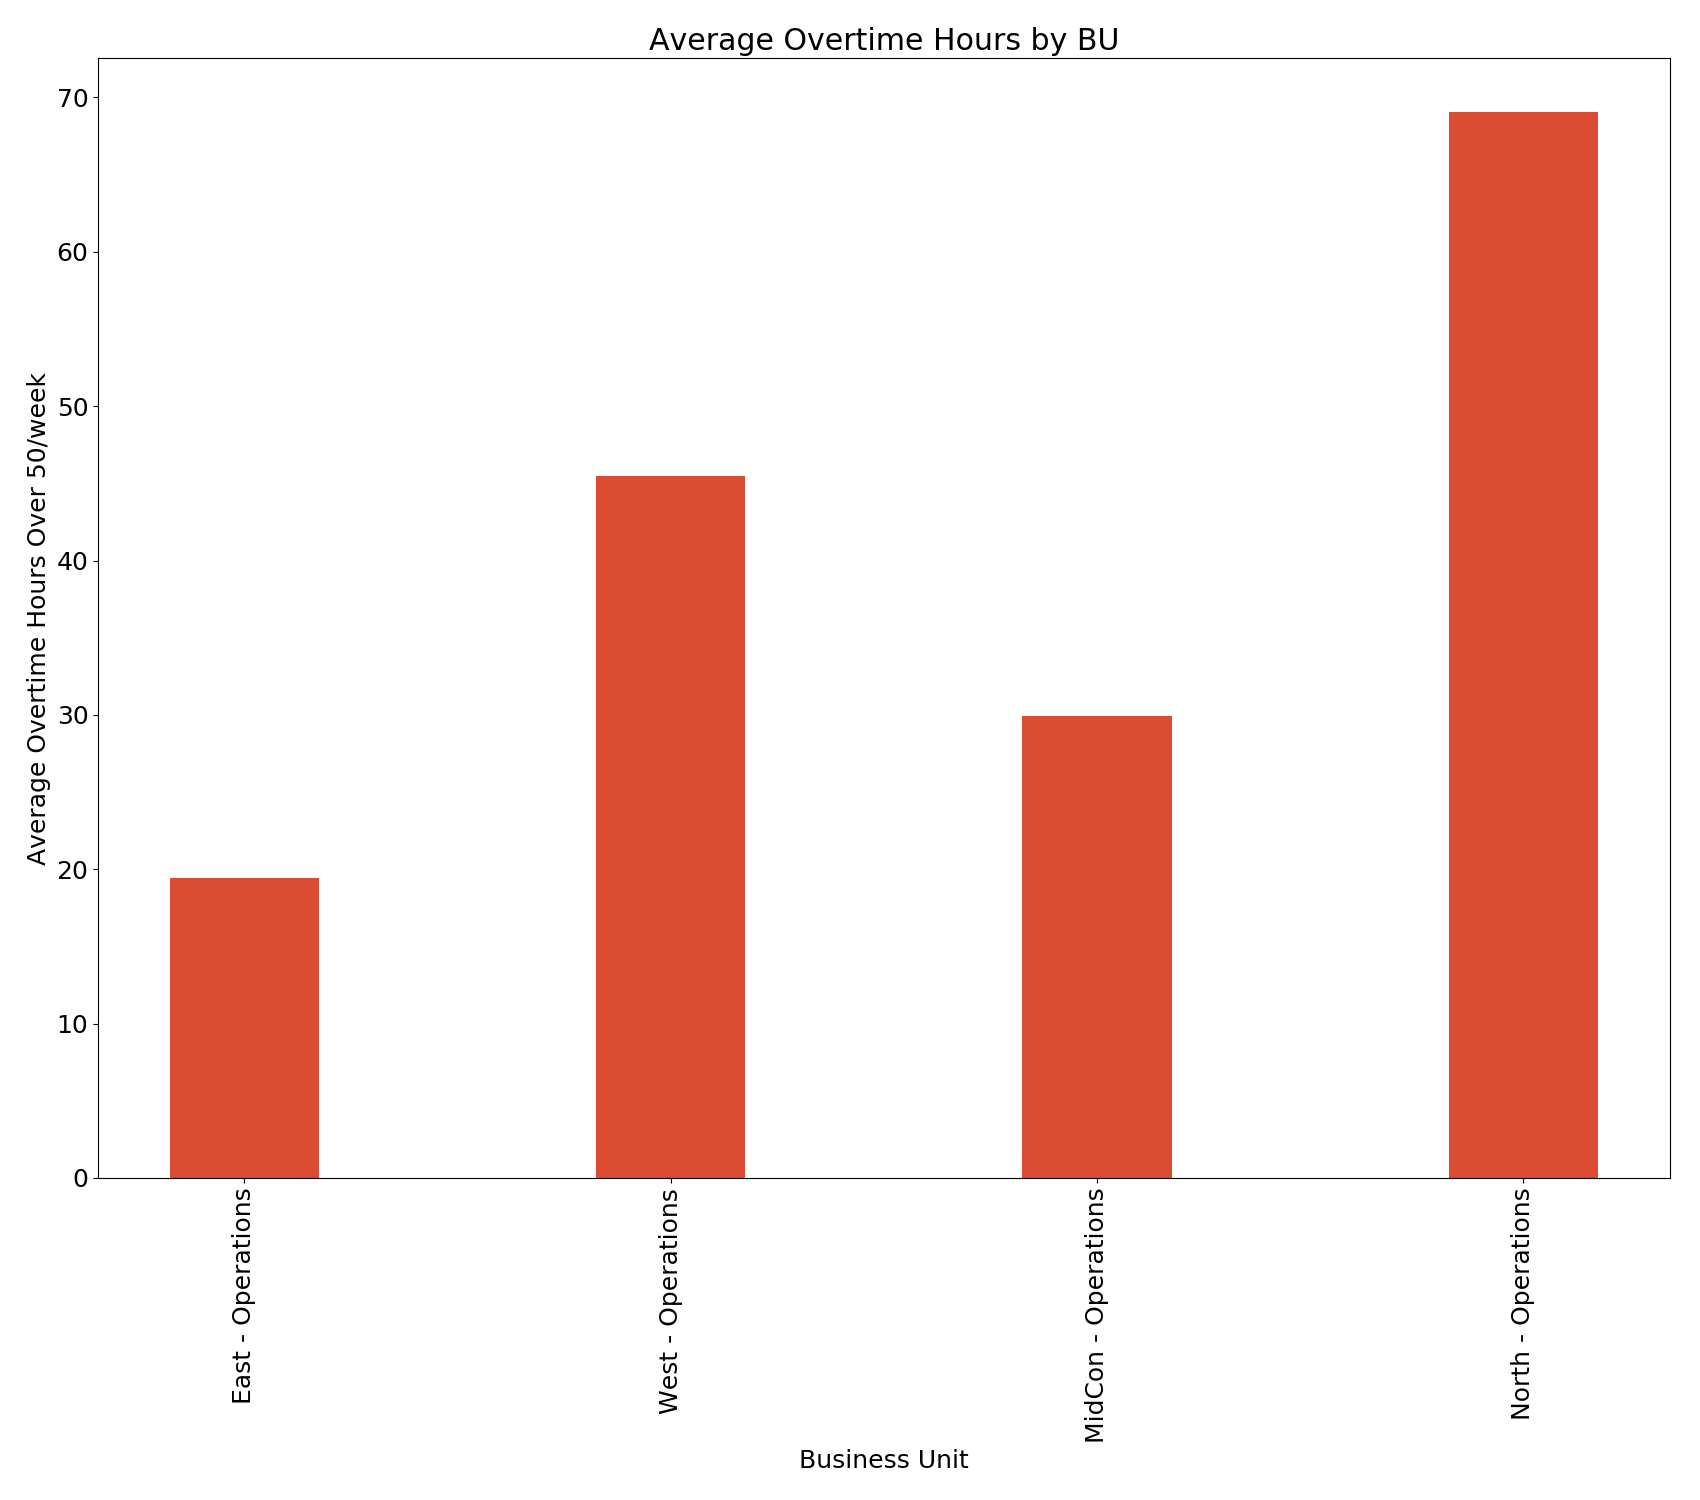
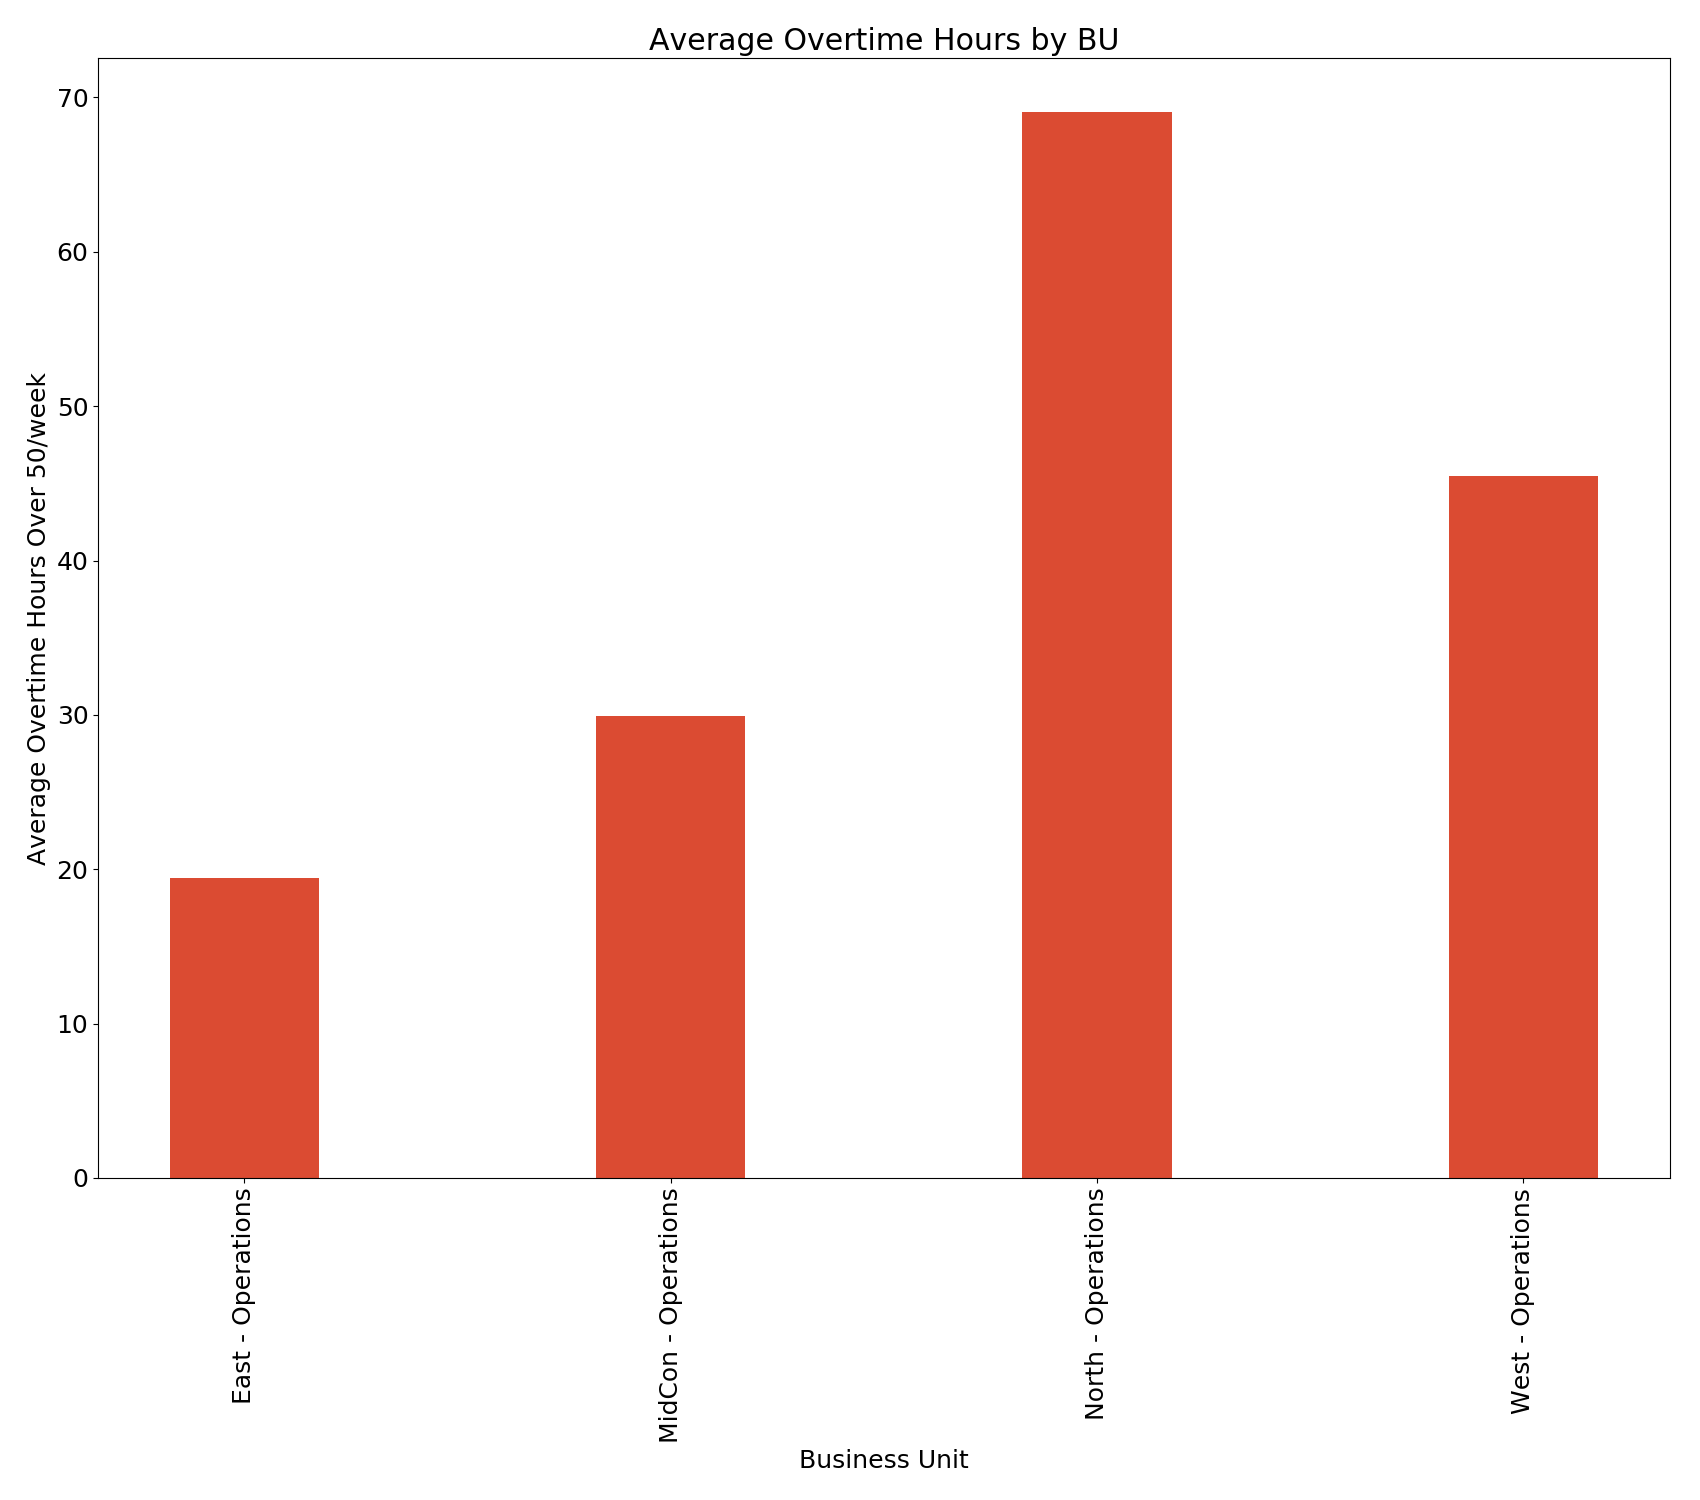
sorting graphs

diff --git a/eda.py b/eda.py
@@ -107,7 +107,7 @@ def vac_nonexempt(df):
 	for bu in sorted(df['primary_bu'].unique()):
 		avg = df[(df['primary_bu'] == bu) & \
 				 (df['employee_subgroup'].str.contains('Non')) & \
-				 (df['primary_bu'].str.contains('OPERATIONS'))]['remainder'].sum()
+				 (df['primary_bu'].str.contains('OPERATIONS'))]['remainder'].mean()
 		if avg > 0:
 			y_dic[bu] = avg
 
@@ -115,14 +115,14 @@ def vac_nonexempt(df):
 	width = 0.35
 
 	p1 = ax1.bar(ind, y_dic.values(), width, color='#db4b32')
-	ax1.set_ylabel('Total Remaining Vacation Time (Hours)')
+	ax1.set_ylabel('Average Remaining Vacation Time (Hours)')
 	ax1.set_xlabel('BU')
 	plt.xticks(ind, y_dic.keys(), rotation='vertical')
 
-	plt.title('Total Remaining Vacation Time of Non-Exempt Employees by BU')
+	plt.title('Average Remaining Vacation Time of Non-Exempt Employees by BU')
 	plt.tight_layout()
 
-	plt.savefig('images/bu_vaca_nonexempt_tot.png')
+	plt.savefig('images/bu_vaca_nonexempt_avg.png')
 
 def percent_vaca(df):
 	plt.close()
@@ -230,7 +230,7 @@ def bu_ot_50(df):
 	ops = df[df['bu'].str.contains('Operations')]
 
 	y_dic = {}
-	for bu in ops['bu'].unique():
+	for bu in sorted(ops['bu'].unique()):
 		y_dic[bu] = ops[ops['bu'] == bu]['over_50'].mean()
 
 	ind = np.arange(len(ops['bu'].unique()))
@@ -278,15 +278,15 @@ def ot_nonexempt(df):
 	plt.savefig('images/bu_ot_nonexempt_avg.png')
 
 if __name__ == '__main__':
-	ot_df = overtime()
-	bu_ot(ot_df)
+	# ot_df = overtime()
+	# bu_ot(ot_df)
 	# org_ot(ot_df)
 	# bu_ot_50(ot_df)
 	# ot_vac_df = overtime(vaca=True)
 	# ot_nonexempt(ot_df)
 
-	# vaca_df = vacation()
+	vaca_df = vacation()
 	# vac_remaining(vaca_df)
 	# vac_pos(vaca_df)
-	# vac_nonexempt(vaca_df)
+	vac_nonexempt(vaca_df)
 	# percent_vaca(vaca_df)
